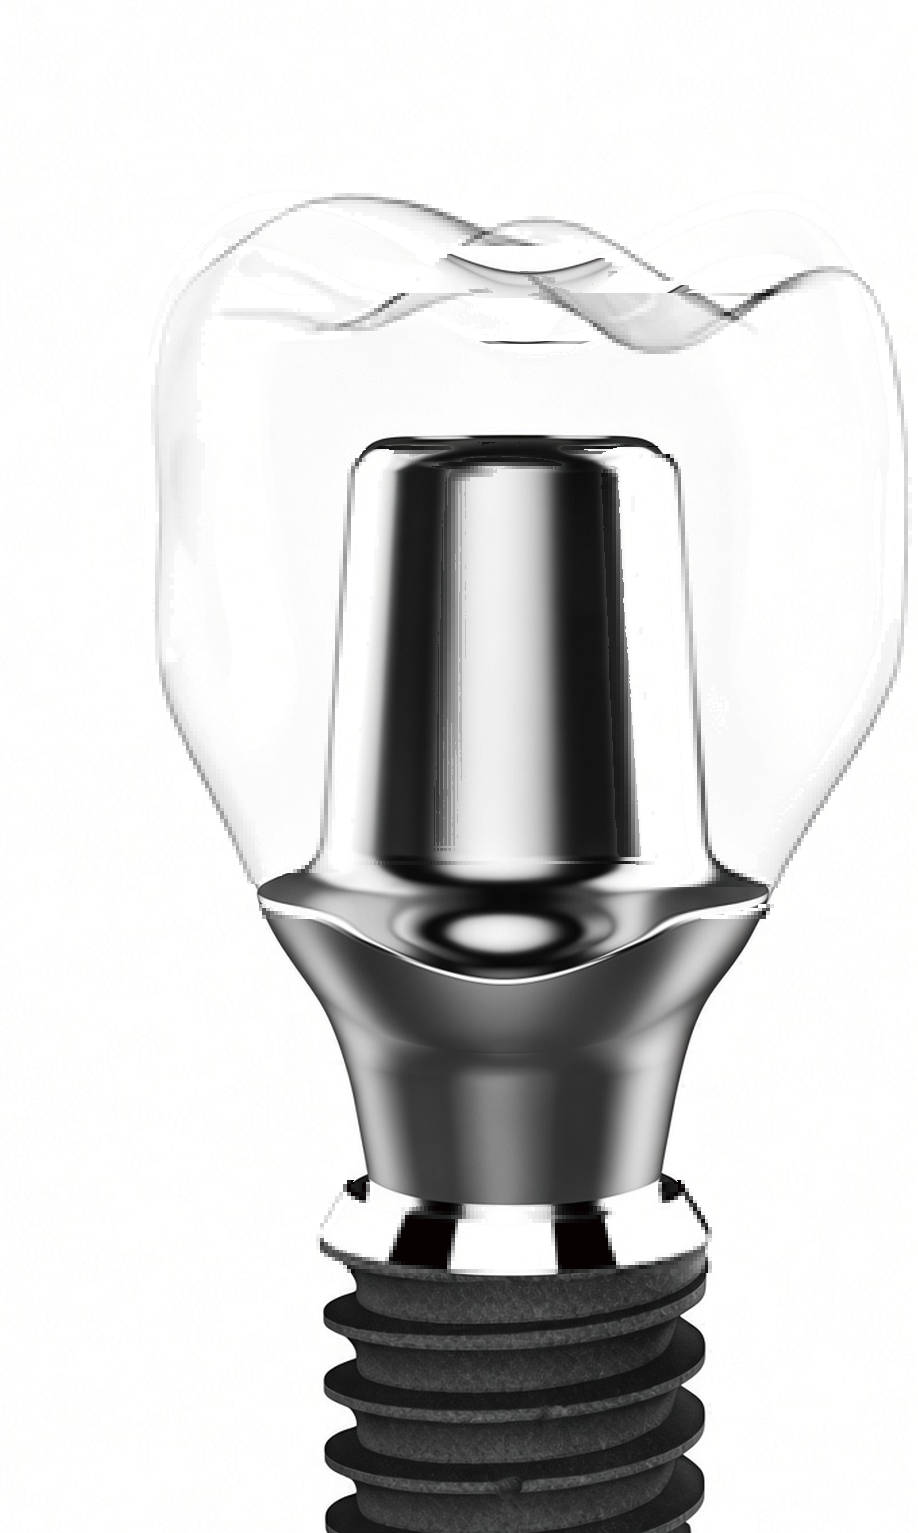
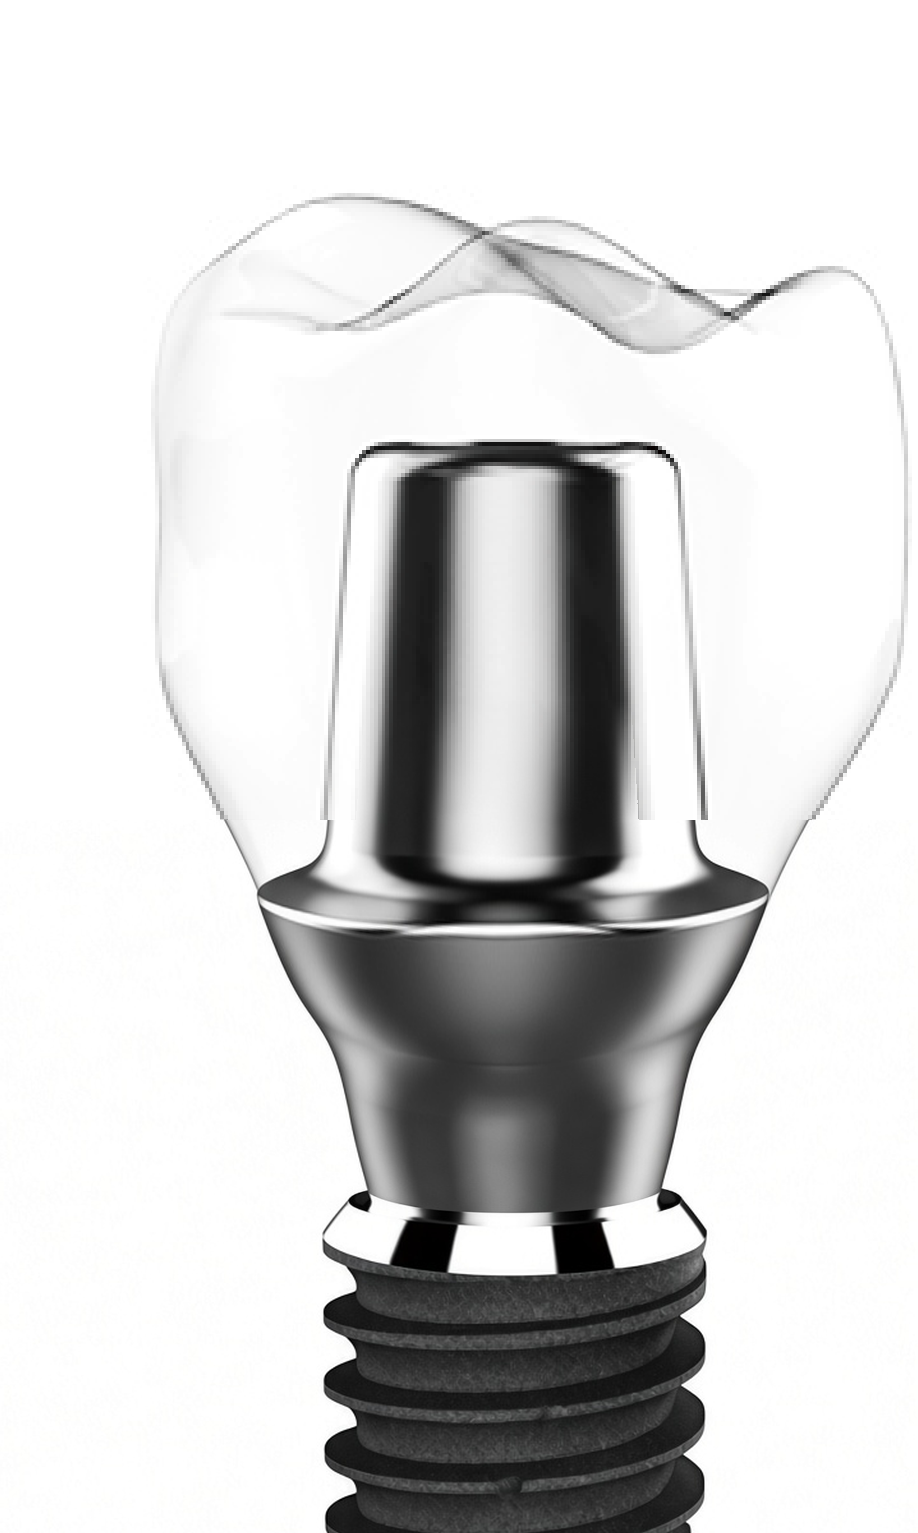
Soften the custom abutment finish line without bending the post.

diff --git a/web/frontend/src/features/landing/landingAssets.ts b/web/frontend/src/features/landing/landingAssets.ts
@@ -36,7 +36,7 @@ export const LANDING_SW_CATALOG_ASSEMBLY =
   "/landing/simpleway/catalog-assembly.png";
 /** 히어로 — 어벗츠 커스텀어벗. 심플어벗 조립도에서 어벗만 바꾼 컷 */
 export const LANDING_SW_CUSTOM_ASSEMBLY =
-  "/landing/simpleway/gribo-custom-assembly.png?v=15";
+  "/landing/simpleway/gribo-custom-assembly.png?v=18";
 /** Flow Chart 직경 라인 (10→6, 맨 아래 6=노랑) */
 export const LANDING_SW_FLOW_ROWS = [
   {
